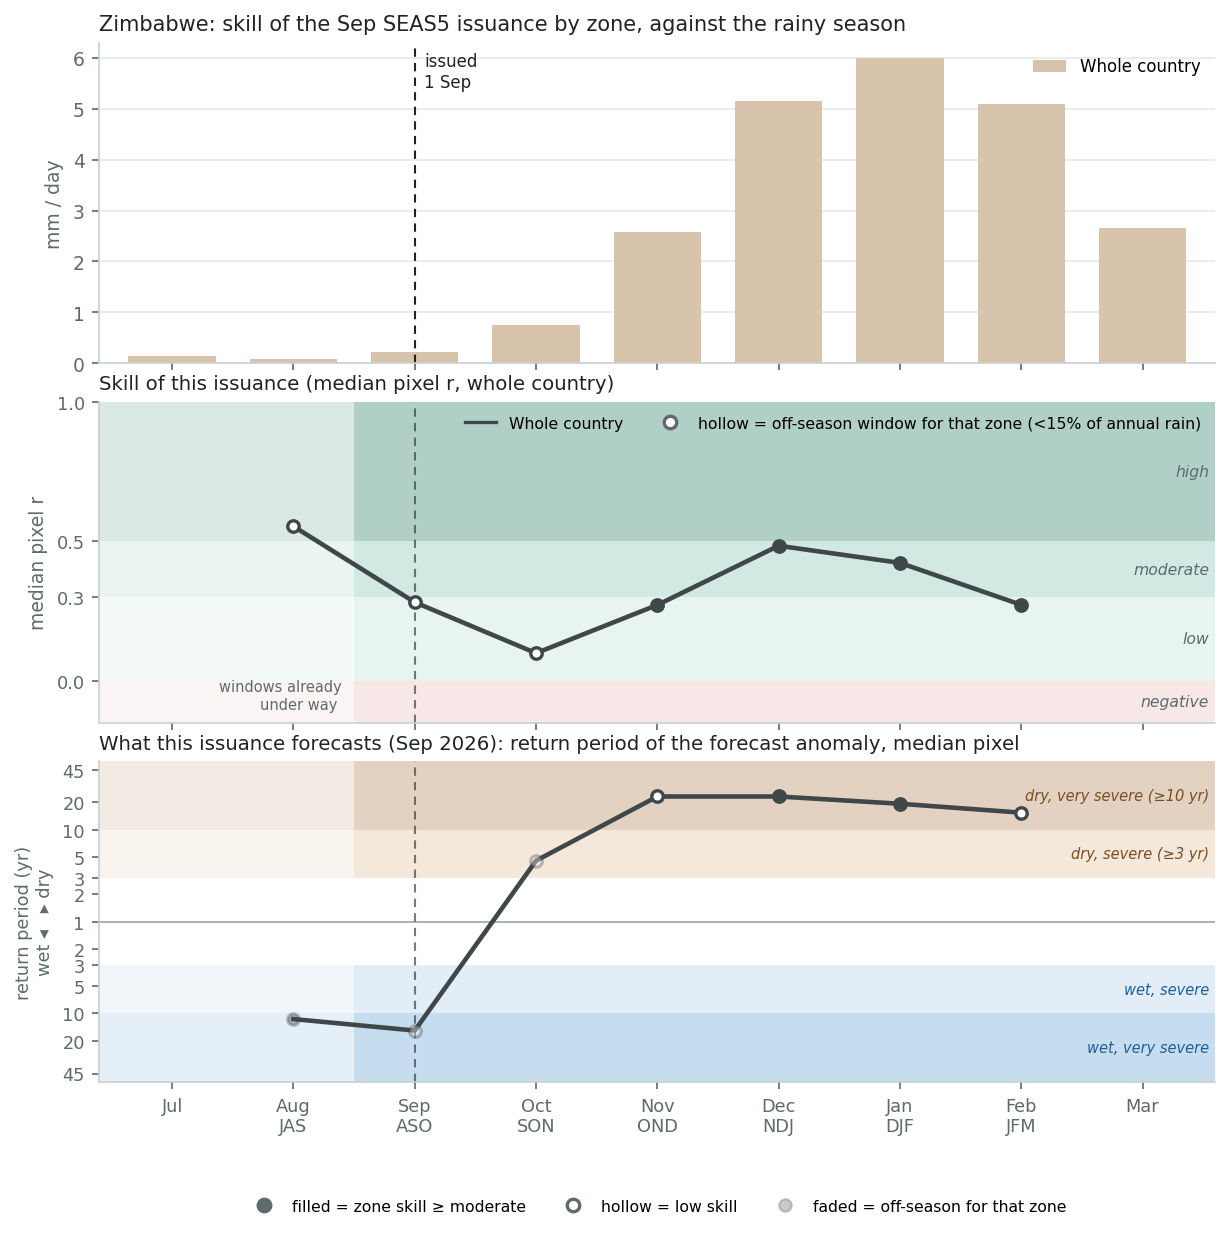
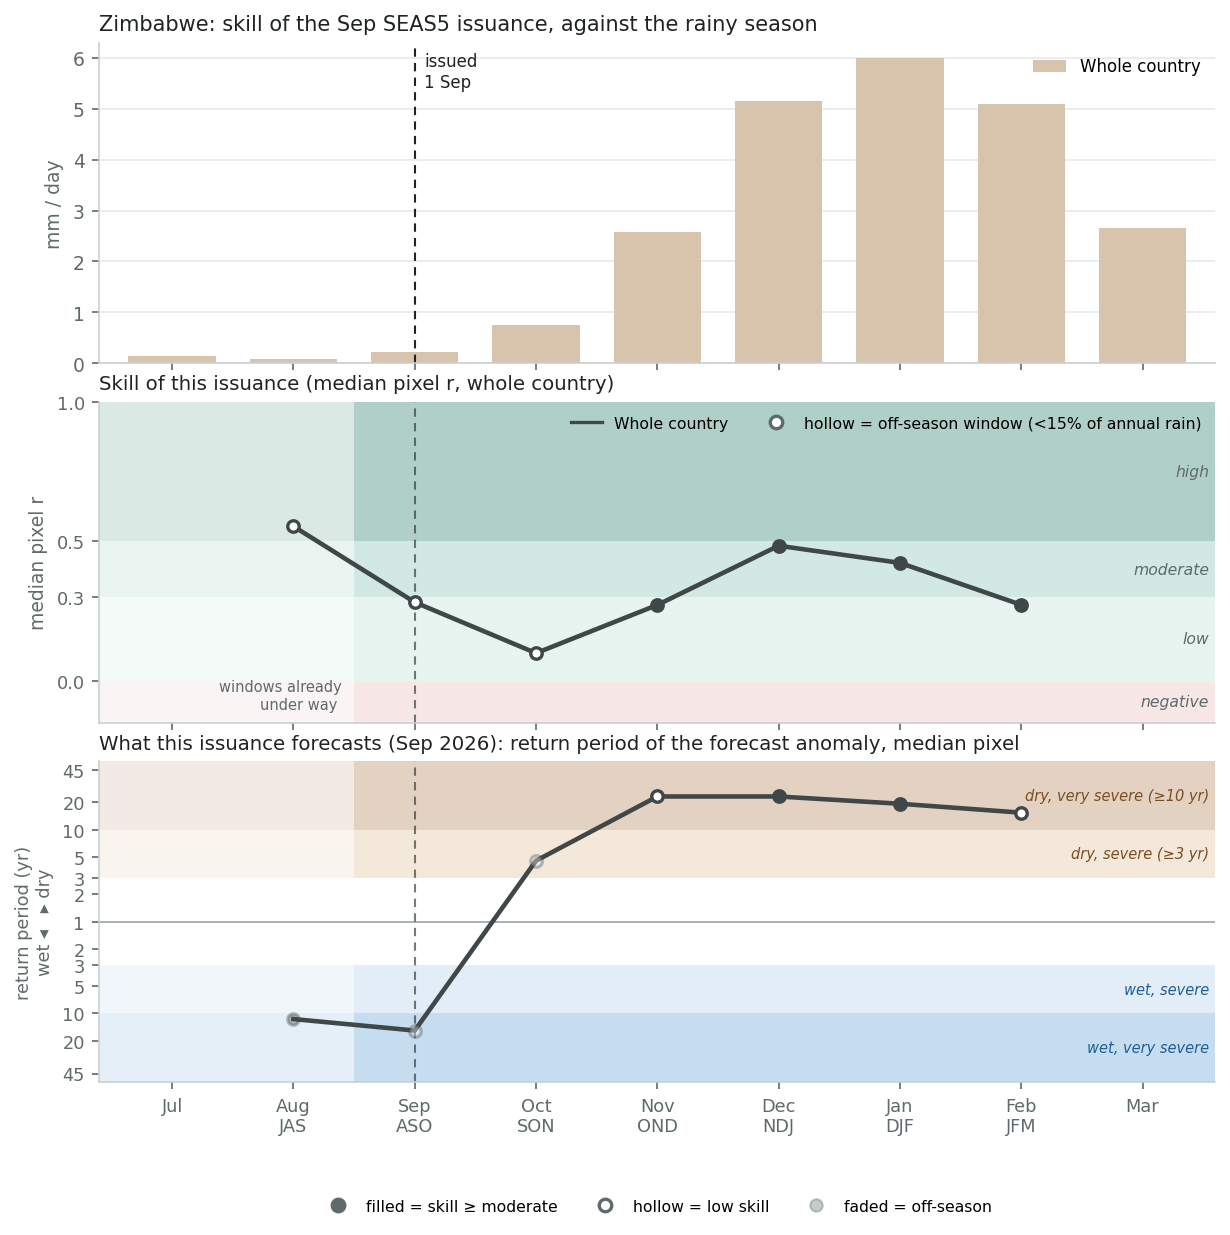
Skill figure: national wording when there are no analysis zones

Changed region(s): [[0.2163, 0.9538, 0.865, 0.9846], [0.4016, 0.3385, 0.8341, 0.3692], [0.4634, 0.0, 0.7415, 0.0308]]

diff --git a/docs/enso/eri/index.html b/docs/enso/eri/index.html
@@ -140,7 +140,7 @@ a{color:var(--b6)}
 <h2>Can SEAS5 forecast it? Skill of the Jun issuance, by zone</h2>
 <p>A teleconnection is only useful for anticipatory action if the seasonal forecast can carry it. The figure reads the seas5-skill app's per-pixel skill cube — the temporal Pearson r between the detrended ECMWF SEAS5 trimester forecast and detrended ERA5, per 0.4° pixel — for forecasts issued on 1 Jun, sampled at this page's cells and summarised as the median pixel r per zone. Bins are the app's (<em>low</em> &lt; 0.30 ≤ <em>moderate</em> &lt; 0.50 ≤ <em>high</em>). Each point is one three-month window the issuance covers, drawn on its middle month under the rainy-season climatology, so the reader sees which part of the season each forecast window reaches and how much skill it has there.</p>
 
-<p><strong>What the Jun 2026 issuance forecasts.</strong> Windows at or beyond the app's 3-year return-period threshold, by zone (in-season windows excluded): <strong>Highlands &amp; west:</strong> JJA dry 46 yr (low skill), JAS dry 46 yr (moderate skill), ASO dry 46 yr (low skill), SON dry 3 yr (low skill), OND wet 46 yr (low skill); <strong>Drier margin:</strong> JJA dry 46 yr (moderate skill), JAS dry 46 yr (low skill), ASO dry 46 yr (low skill), OND wet 46 yr (low skill); <strong>Whole country:</strong> JJA dry 46 yr (low skill), JAS dry 46 yr (moderate skill), ASO dry 46 yr (low skill), OND wet 46 yr (low skill). Under the app's rule — an alert needs the return period <em>and</em> at least moderate skill — this issuance would raise an alert for Highlands & west JAS, Drier margin JJA, Whole country JAS. A return period at the ceiling (about 46 years) means the forecast is the most extreme of the 45-year hindcast for that window, not a calibrated 1-in-46 probability; read it as “beyond the record”.</p>
+<p><strong>What the Jun 2026 issuance forecasts.</strong> Windows at or beyond the app's 3-year return-period threshold, by zone (in-season windows excluded): <strong>Highlands &amp; west:</strong> JJA dry 46 yr (low skill), JAS dry 46 yr (moderate skill), ASO dry 46 yr (low skill), SON dry 3 yr (low skill), OND wet 46 yr (low skill); <strong>Drier margin:</strong> JJA dry 46 yr (moderate skill), JAS dry 46 yr (low skill), ASO dry 46 yr (low skill), OND wet 46 yr (low skill); <strong>Whole country:</strong> JJA dry 46 yr (low skill), JAS dry 46 yr (moderate skill), ASO dry 46 yr (low skill), OND wet 46 yr (low skill). Under the app's rule — an alert needs the return period <em>and</em> at least moderate skill — this issuance would raise an alert for Highlands & west JAS, Drier margin JJA, JAS. A return period at the ceiling (about 46 years) means the forecast is the most extreme of the 45-year hindcast for that window, not a calibrated 1-in-46 probability; read it as “beyond the record”.</p>
 <figure><img src="skill_issued.png" alt="SEAS5 skill of the Jun issuance by zone"><figcaption>Top: monthly rainfall climatology, whole country (bars) and zones (lines), from two months before the issuance to the end of the seven-month SEAS5 horizon. Bottom: median pixel skill of the Jun issuance for each three-month window, plotted on the window's middle month, one line per zone and a dashed line for the whole country, over the app's low / moderate / high bands. Hollow markers are windows holding under 15% of that zone's annual rain (the app's off-season mask); windows left of the dashed vertical had already started at issuance, so part of them is observed rather than forecast. Third panel: the return period of the Jun 2026 forecast anomaly in each window (Weibull rank of the forecast among its own hindcasts, the app's forecast_rp / flood_rp), median pixel per zone; dry seasons plot above the axis and wet below, with the app's severe (3-year) and very severe (10-year) alert bands. Filled markers mean the zone's skill there is at least moderate, the app's condition for raising an alert.</figcaption></figure>
 <div style="overflow-x:auto"><table class="skill"><thead><tr><th>Zone</th><th class="num">Cells</th><th class="num">AMJ<br><span class="small">in-season</span></th><th class="num">MJJ<br><span class="small">in-season</span></th><th class="num">JJA<br><span class="small">0-mo lead</span></th><th class="num">JAS<br><span class="small">1-mo lead</span></th><th class="num">ASO<br><span class="small">2-mo lead</span></th><th class="num">SON<br><span class="small">3-mo lead</span></th><th class="num">OND<br><span class="small">4-mo lead</span></th></tr></thead><tbody>
 <tr><td>Highlands &amp; west (JAS ≥ 2 mm/day)</td><td class="num">79</td><td class="num" style="white-space:nowrap">+0.72 <span class="chip" style="background:#1e795f;color:#ffffff;margin:0">high</span><br><span class="small">100% ≥ mod. · dry 6.7 yr</span></td><td class="num" style="white-space:nowrap">+0.34 <span class="chip" style="background:#7dc1ad;color:#1a1a1a;margin:0">moderate</span><br><span class="small">62% ≥ mod. · dry 47.0 yr</span></td><td class="num" style="white-space:nowrap">+0.29 <span class="chip" style="background:#bee0d6;color:#1a1a1a;margin:0">low</span><br><span class="small">35% ≥ mod. · dry 46.0 yr</span></td><td class="num" style="white-space:nowrap">+0.31 <span class="chip" style="background:#7dc1ad;color:#1a1a1a;margin:0">moderate</span><br><span class="small">66% ≥ mod. · dry 46.0 yr</span></td><td class="num" style="white-space:nowrap">+0.21 <span class="chip" style="background:#bee0d6;color:#1a1a1a;margin:0">low</span><br><span class="small">8% ≥ mod. · dry 46.0 yr</span></td><td class="num" style="white-space:nowrap">+0.19 <span class="chip" style="background:#bee0d6;color:#1a1a1a;margin:0">low</span><br><span class="small">16% ≥ mod. · dry 3.3 yr</span></td><td class="num" style="white-space:nowrap">+0.16 <span class="chip" style="background:#bee0d6;color:#1a1a1a;margin:0">low</span><br><span class="small">38% ≥ mod. · wet 46.0 yr</span></td></tr>

diff --git a/enso_deep_dive.py b/enso_deep_dive.py
@@ -496,7 +496,8 @@ def fig_skill_issued(c: Country, grid: Grid, zones: dict[str, np.ndarray], skill
     ax.text(xpos[im] + 0.08, ax.get_ylim()[1] * 0.97, f"issued\n1 {MONTH_NAMES[im - 1]}", fontsize=8, color=C_TEXT, va="top")
     ax.set_ylabel("mm / day", fontsize=9, color=C_MUTED)
     ax.legend(frameon=False, fontsize=8, loc="best", ncol=1)
-    ax.set_title(f"{name}: skill of the {MONTH_NAMES[im - 1]} SEAS5 issuance by zone, against the rainy season",
+    solo_fig = len(rows) == 1
+    ax.set_title(f"{name}: skill of the {MONTH_NAMES[im - 1]} SEAS5 issuance{'' if solo_fig else ' by zone'}, against the rainy season",
                  fontsize=10, color=C_TEXT, loc="left")
     _style_ax(ax)
     # --- bottom: median pixel skill per zone as lines over the trimester middle months, on the
@@ -542,7 +543,8 @@ def fig_skill_issued(c: Country, grid: Grid, zones: dict[str, np.ndarray], skill
     for sp in ("left", "bottom"):
         hx.spines[sp].set_color("#c9d0d0")
     hx.legend(handles=[plt.Line2D([], [], color="#3f4748", ls=(0, (4, 2)) if len(rows) > 1 else "-", lw=1.6, label="Whole country"),
-                       plt.Line2D([], [], color=C_MUTED, marker="o", mfc="white", ls="", mew=1.6, label="hollow = off-season window for that zone (<15% of annual rain)")],
+                       plt.Line2D([], [], color=C_MUTED, marker="o", mfc="white", ls="", mew=1.6,
+                                  label="hollow = off-season window" + ("" if solo_fig else " for that zone") + " (<15% of annual rain)")],
               frameon=False, fontsize=7.5, loc="upper right", ncol=2)
     hx.set_title("Skill of this issuance (median pixel r" + (", whole country)" if len(rows) == 1 else ")"), fontsize=9.5, color=C_TEXT, loc="left")
 
@@ -588,9 +590,9 @@ def fig_skill_issued(c: Country, grid: Grid, zones: dict[str, np.ndarray], skill
         rx.spines[sp].set_color("#c9d0d0")
     rx.set_title(f"What this issuance forecasts ({MONTH_NAMES[im - 1]} {yr if yr else ''}): return period of the forecast "
                  f"anomaly, median pixel" + ("" if len(rows) == 1 else " per zone"), fontsize=9.5, color=C_TEXT, loc="left")
-    rx.legend(handles=[plt.Line2D([], [], color=C_MUTED, marker="o", ls="", mew=1.6, label="filled = zone skill ≥ moderate"),
+    rx.legend(handles=[plt.Line2D([], [], color=C_MUTED, marker="o", ls="", mew=1.6, label="filled = skill ≥ moderate" if solo_fig else "filled = zone skill ≥ moderate"),
                        plt.Line2D([], [], color=C_MUTED, marker="o", mfc="white", ls="", mew=1.6, label="hollow = low skill"),
-                       plt.Line2D([], [], color=C_MUTED, marker="o", ls="", alpha=0.35, label="faded = off-season for that zone")],
+                       plt.Line2D([], [], color=C_MUTED, marker="o", ls="", alpha=0.35, label="faded = off-season" if solo_fig else "faded = off-season for that zone")],
               frameon=False, fontsize=7.5, loc="upper center", bbox_to_anchor=(0.5, -0.32), ncol=3)
     fig.savefig(out, bbox_inches="tight"); plt.close(fig)
 
